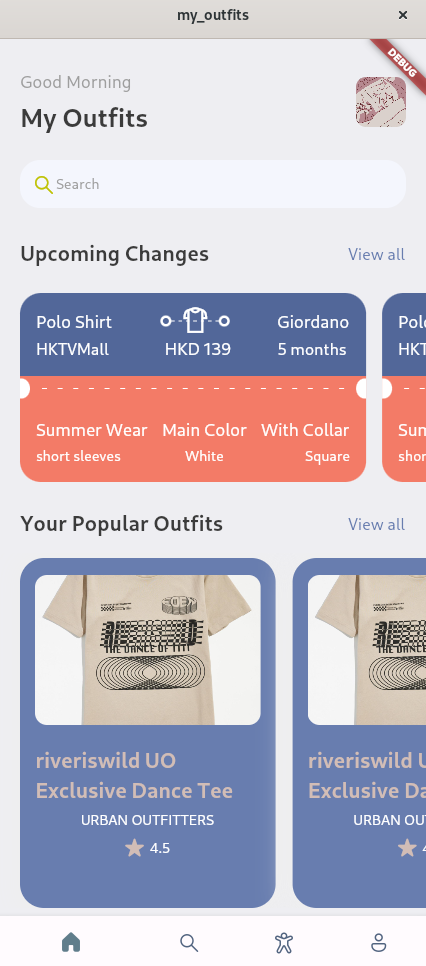
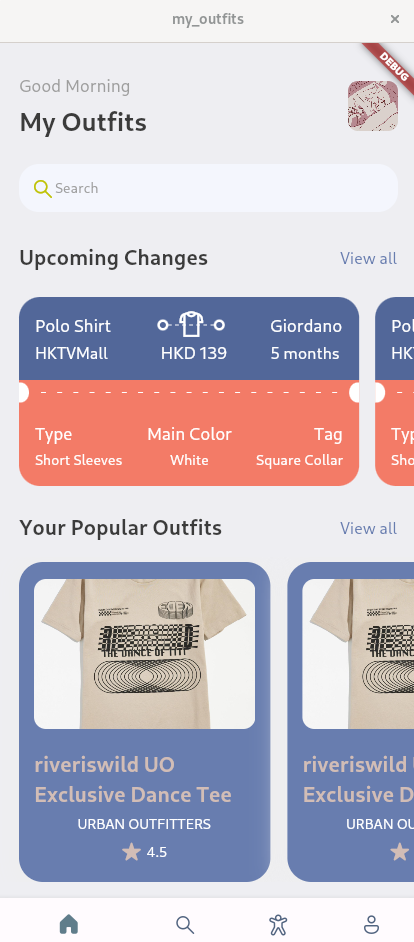
Rethinking and does subtle change of homepage

diff --git a/lib/screens/outfit_view.dart b/lib/screens/outfit_view.dart
@@ -172,13 +172,13 @@ class OutfitView extends StatelessWidget {
                       crossAxisAlignment: CrossAxisAlignment.start,
                       children: [
                         Text(
-                          'Summer Wear',
+                          'Type',
                           style: Styles.headLineStyle3
                               .copyWith(color: Colors.white),
                         ),
                         const Gap(5),
                         Text(
-                          'short sleeves',
+                          'Short Sleeves',
                           style: Styles.headLineStyle4
                               .copyWith(color: Colors.white),
                         ),
@@ -204,13 +204,13 @@ class OutfitView extends StatelessWidget {
                       crossAxisAlignment: CrossAxisAlignment.end,
                       children: [
                         Text(
-                          'With Collar',
+                          'Tag',
                           style: Styles.headLineStyle3
                               .copyWith(color: Colors.white),
                         ),
                         const Gap(5),
                         Text(
-                          'Square',
+                          'Square Collar',
                           style: Styles.headLineStyle4
                               .copyWith(color: Colors.white),
                         ),

diff --git a/lib/screens/popular_screen.dart b/lib/screens/popular_screen.dart
@@ -14,7 +14,7 @@ class PopularScreen extends StatelessWidget {
     final size = AppLayout.getSize(context);
     return Container(
       width: size.width * 0.6,
-      height: 350,
+      height: 320,
       padding: const EdgeInsets.symmetric(horizontal: 15, vertical: 17),
       margin: const EdgeInsets.only(right: 17, top: 5),
       decoration: BoxDecoration(
